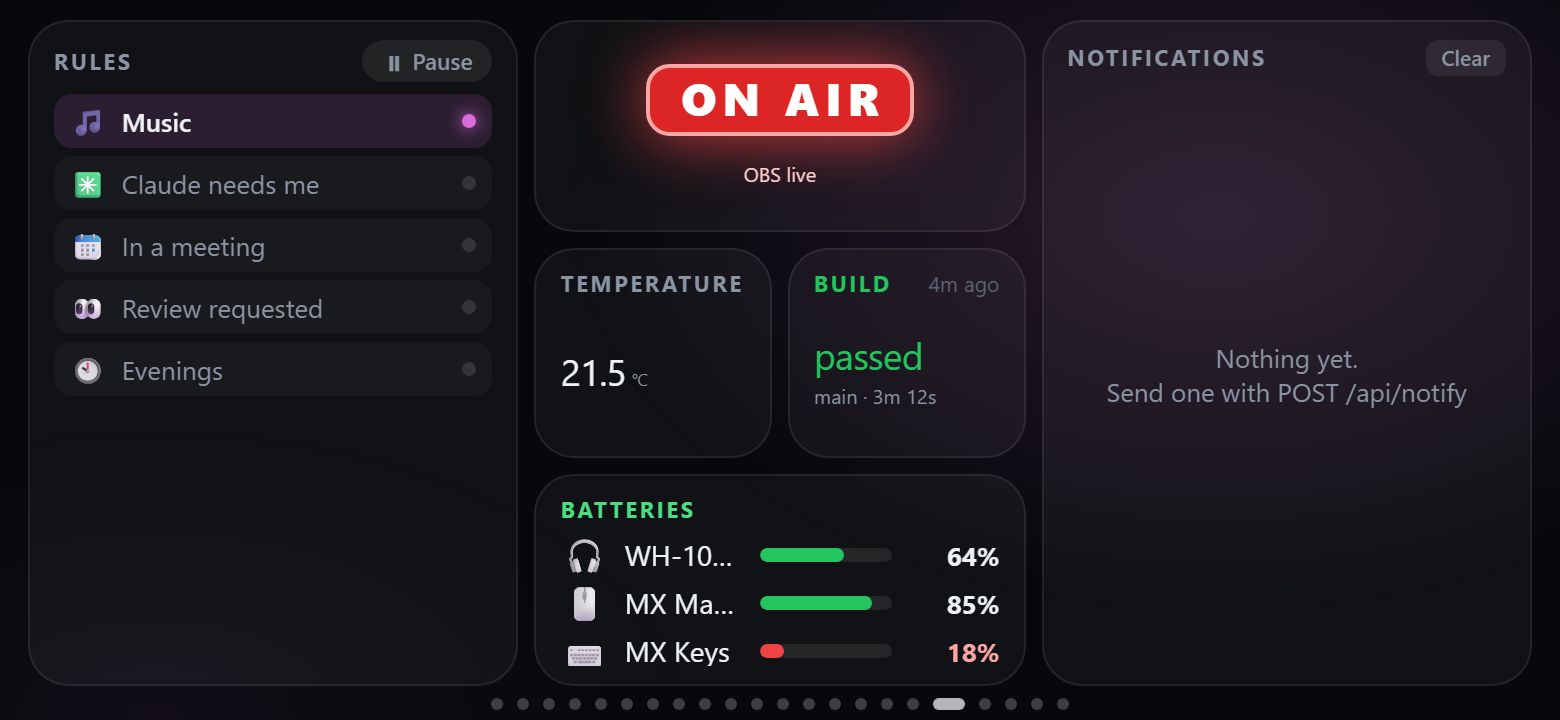
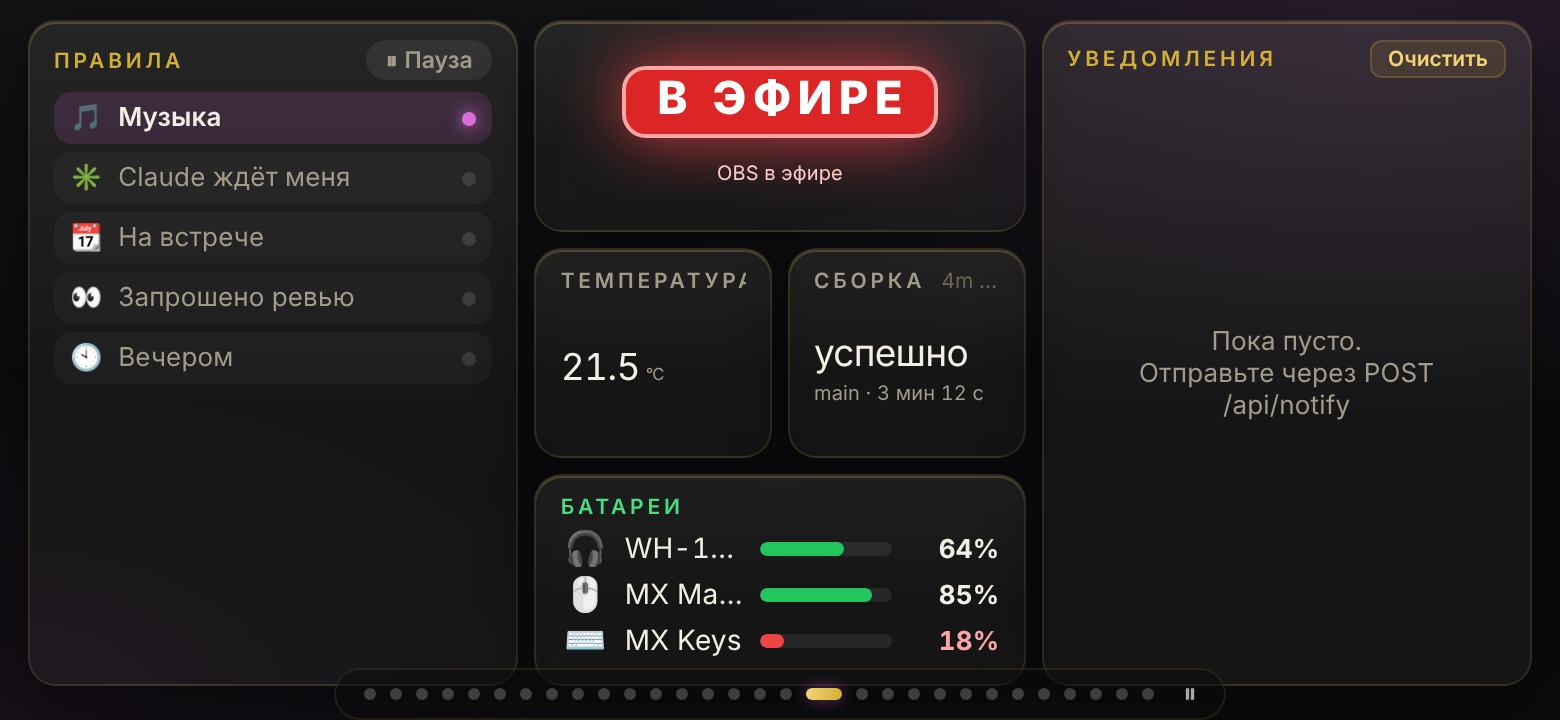
Guide screenshots in the PRO design and Russian, more of the panel in Russian
- docs/screenshots retaken from the Russian demo in the PRO design (19 pages,
  the page overview and the layout editor); unused smart-stack and
  session-details shots removed; README hero from the new home shot
- media.js: --ru takes the shots from the Russian demo; settings-editor shot
- Panel: i18n-ru-dom.js also translates the panel's own English text, with
  rules for phrases with numbers (88% left, Week 47, Ping 10 ms…) and units
- Word clock in Russian («четверть одиннадцатого», «без двадцати одиннадцать»)
- Russian built-in quotes, checklist items and world clocks
- Layout editor widget blocks in graphite and gold

Claude-Session: https://claude.ai/code/session_01WchbezXxZqUxDtoKdkvsGX

diff --git a/android/app/src/main/assets/www/i18n-ru-dom.js b/android/app/src/main/assets/www/i18n-ru-dom.js
@@ -179,15 +179,80 @@
     "From other machines on your network or Tailscale, with the webhook key (HTTPS with this PC's self-signed certificate, so curl needs -k). The key can also go in ?token= for senders that cannot set headers. It only opens the webhook endpoints, never the phone API; replace it if it leaks.": 'С других компьютеров в вашей сети или в Tailscale — с ключом вебхука (HTTPS с самоподписанным сертификатом этого ПК, поэтому curl нужен -k). Ключ можно передать и в ?token= для отправителей, которые не умеют задавать заголовки. Он открывает только адреса вебхуков, но не API телефона; если ключ утёк, замените его.',
     'Profile action IDs': 'ID действий профиля',
     'Mo': 'Пн', 'Tu': 'Вт', 'We': 'Ср', 'Th': 'Чт', 'Fr': 'Пт', 'Sa': 'Сб', 'Su': 'Вс', 'active now': 'действует сейчас',
+
+    // ---- phone panel: widget titles and labels written in English
+    'Processor': 'Процессор', 'Graphics': 'Видеокарта', 'Network': 'Сеть', 'RAM': 'ОЗУ', 'CPU': 'ЦП', 'PHONE': 'ТЕЛЕФОН',
+    '7-day forecast': 'Прогноз на 7 дней', 'Next hours': 'Ближайшие часы', 'Volume': 'Громкость', 'Sun & moon': 'Солнце и луна',
+    'Air quality': 'Качество воздуха', 'Time': 'Время', 'Day': 'День', 'Week': 'Неделя', 'Month': 'Месяц', 'Year': 'Год',
+    'Timer': 'Таймер', 'Counter': 'Счётчик', 'Reset': 'Сброс', 'Stopwatch': 'Секундомер', 'Crypto': 'Криптовалюты',
+    'Room': 'Комната', 'Deploy': 'Деплой', 'Progress': 'Прогресс', 'Notifications': 'Уведомления', 'Clear': 'Очистить',
+    '⏸ Pause': '⏸ Пауза', '▶ Resume': '▶ Продолжить', 'ON AIR': 'В ЭФИРЕ', 'Temperature': 'Температура', 'Batteries': 'Батареи',
+    'This phone': 'Этот телефон', 'Next up': 'Следующее', 'all day': 'весь день', 'Today': 'Сегодня', 'Tomorrow': 'Завтра',
+    "it's just after": 'сейчас чуть больше', "it's nearly": 'сейчас почти', "it's": 'сейчас', 'Moon': 'Луна',
+    'New moon': 'Новолуние', 'Waxing crescent': 'Растущий серп', 'First quarter': 'Первая четверть', 'Waxing gibbous': 'Растущая луна',
+    'Full moon': 'Полнолуние', 'Waning gibbous': 'Убывающая луна', 'Last quarter': 'Последняя четверть', 'Waning crescent': 'Убывающий серп',
+    'Battery care': 'Бережная зарядка', 'Docker containers': 'Контейнеры Docker', 'Free disk space': 'Свободно на дисках',
+    'Application mixer': 'Микшер приложений', 'Microphone': 'Микрофон', 'Media remote': 'Медиапульт', 'OBS scenes': 'Сцены OBS',
+    'OBS mixer': 'Микшер OBS', 'OBS recording and stream': 'Запись и трансляция OBS', 'Start recording': 'Начать запись',
+    'Stop recording': 'Остановить запись', 'Start stream': 'Начать трансляцию', 'Stop stream': 'Остановить трансляцию',
+    'Pause recording': 'Пауза записи', 'Resume recording': 'Продолжить запись', 'Meeting Controls': 'Управление встречей',
+    'Ready': 'Готово', 'Meeting timer': 'Таймер встречи', 'Task Runner': 'Задачи', 'Dev Servers': 'Серверы разработки',
+    'Stop': 'Стоп', 'Start': 'Старт', 'Restart': 'Перезапуск', 'Spotify queue': 'Очередь Spotify', 'Soundboard': 'Саундборд',
+    'App Dock': 'Док приложений', 'Display brightness': 'Яркость дисплея', 'Audio profiles': 'Звуковые профили',
+    'Latest local session': 'Последняя локальная сессия', 'Session tokens': 'Токены сессии', 'Review requests': 'Запросы на ревью',
+    'My pull requests': 'Мои pull request', 'approved': 'одобрено', 'changes': 'нужны правки', 'Previous': 'Назад',
+    'Play/Pause': 'Пуск / пауза', 'Next': 'Вперёд', 'Previous track': 'Предыдущий трек', 'Play or pause': 'Пуск или пауза',
+    'Next track': 'Следующий трек', 'Up next': 'Дальше', 'Now playing': 'Сейчас играет', 'Playing': 'Играет', 'Paused': 'Пауза',
   };
   const norm = (s) => s.replace(/\s+/g, ' ').trim();
+  // phrases with numbers in them (the panel builds these from data)
+  const RULES = [
+    [/^(\d+)% left$/, 'осталось $1%'],
+    [/^Week (\d+)$/, 'Неделя $1'],
+    [/^until (\d{1,2}:\d{2})$/, 'до $1'],
+    [/^Ping (\d+) ms · loss ([\d.]+)%$/, 'Пинг $1 мс · потери $2%'],
+    [/^Fan (\d+)% · (\d+) MHz$/, 'Вентилятор $1% · $2 МГц'],
+    [/^Top CPU \((\d+)%\)$/, 'Топ ЦП ($1%)'],
+    [/^Top RAM \((\d+)%\)$/, 'Топ ОЗУ ($1%)'],
+    [/^Recording (\d[\d:]*)$/, 'Запись $1'],
+    [/^Stream (\d[\d:]*)$/, 'Эфир $1'],
+    [/^(\d+)% lit$/, 'освещено $1%'],
+    [/^Full moon in (\d+) days?$/, 'Полнолуние через $1 дн.'],
+    [/^New moon in (\d+) days?$/, 'Новолуние через $1 дн.'],
+    [/^(\d+) working · (\d+) waiting · (\d+) idle$/, 'работают: $1 · ждут: $2 · простаивают: $3'],
+    [/^▲ (\d+) · (\d+) comments · (.+)$/, '▲ $1 · комментариев: $2 · $3'],
+    [/^⚡ Charging · (.+)$/, '⚡ Заряжается · $1'],
+    [/^Charging · (.+)$/, 'Заряжается · $1'],
+    [/^Charges up to (\d+)% · power off soon$/, 'Заряд до $1% · скоро отключение питания'],
+    [/^Up (\d+) d (\d+) h$/, 'Работает $1 д $2 ч'],
+    [/^Up (\d+) h (\d+) m$/, 'Работает $1 ч $2 мин'],
+    [/^([A-Z]{3}) · 24 h · 7 d$/, '$1 · 24 ч · 7 д'],
+    [/^ECB · (.+)$/, 'ЕЦБ · $1'],
+    [/^In (\S+) · Out (\S+) · Cached (\S+) · Reasoning (\S+)$/, 'Вход $1 · выход $2 · кэш $3 · рассуждения $4'],
+    [/^Last input (\S+) \/ (\S+) context window$/, 'Последний ввод $1 / окно контекста $2'],
+    [/^GPU · (.+)$/, 'ГП · $1'],
+    [/^VRAM · (.+)$/, 'Видеопамять · $1'],
+    [/^(.+) ago$/, '$1 назад'],
+    [/^default \((.+)\)$/, 'по умолчанию ($1)'],
+    [/^Mute (.+)$/, 'Выключить звук: $1'],
+    [/^(.+) volume$/, 'Громкость: $1'],
+    [/^(\d+(?:\.\d+)?) \/ (\d+) GB$/, '$1 / $2 ГБ'],
+  ];
+  const UNITS = [[/OBS live/g, 'OBS в эфире'], [/OBS recording/g, 'OBS пишет'], [/(\d) GB\b/g, '$1 ГБ'], [/(\d) MB\b/g, '$1 МБ'], [/(\d) MHz\b/g, '$1 МГц'], [/(\d) ms\b/g, '$1 мс']];
+  function rule(text) {
+    for (const [re, to] of RULES) if (re.test(text)) return text.replace(re, to);
+    let out = text;
+    for (const [re, to] of UNITS) out = out.replace(re, to);
+    return out === text ? undefined : out;
+  }
+
   const ATTRS = ['title', 'placeholder', 'aria-label'];
   const active = () => window.DeckBoxI18n?.getLang?.() === 'ru';
 
   function textNode(n) {
     const raw = n.nodeValue;
     if (!raw || !/[A-Za-z]/.test(raw)) return;
-    const hit = RU[norm(raw)];
+    const hit = RU[norm(raw)] ?? rule(norm(raw));
     if (hit === undefined) return;
     const lead = raw.match(/^\s*/)[0], tail = raw.match(/\s*$/)[0];
     const next = lead + hit + tail;

diff --git a/android/app/src/main/assets/www/widgets/time.js b/android/app/src/main/assets/www/widgets/time.js
@@ -193,11 +193,32 @@ export const QUOTES = [
   ['A journey of a thousand miles begins with a single step.', 'Laozi'],
 ];
 
+// DeckBox: built-in quotes for the Russian interface
+const QUOTES_RU = [
+  ['Не тратьте больше времени на споры о том, каким должен быть хороший человек. Будьте им.', 'Марк Аврелий'],
+  ['Препятствие на пути становится путём.', 'Марк Аврелий'],
+  ['Мы чаще страдаем в воображении, чем в действительности.', 'Сенека'],
+  ['Удача — это когда подготовка встречается с возможностью.', 'Сенека'],
+  ['Делай что можешь, с тем что имеешь, там где ты есть.', 'Теодор Рузвельт'],
+  ['В жизни нечего бояться, есть только то, что нужно понять.', 'Мария Кюри'],
+  ['Воображение важнее знания.', 'Альберт Эйнштейн'],
+  ['Знание — сила.', 'Фрэнсис Бэкон'],
+  ['Путь в тысячу ли начинается с первого шага.', 'Лао-цзы'],
+  ['Семь раз отмерь, один раз отрежь.', 'Пословица'],
+  ['Москва не сразу строилась.', 'Пословица'],
+  ['Капля камень точит.', 'Пословица'],
+  ['Терпение и труд всё перетрут.', 'Пословица'],
+  ['Тише едешь — дальше будешь.', 'Пословица'],
+  ['Делу время, потехе час.', 'Пословица'],
+  ['Удалённый код — отлаженный код.', 'Джефф Сикел'],
+];
+const ruUi = () => window.DeckBoxI18n?.getLang?.() === 'ru';
+
 W.quote = {
   needs: ['tick'],
   create(box, { o }) {
     const custom = lines(o.quotes, []).map((l) => { const i = l.lastIndexOf(' — '); return i > 0 ? [l.slice(0, i), l.slice(i + 3)] : [l, '']; });
-    const list = custom.length ? custom : QUOTES;
+    const list = custom.length ? custom : (ruUi() ? QUOTES_RU : QUOTES);
     const mins = Math.max(1, Number(o.minutes) || 30);
     const q = h('div', 'qt-q'), a = h('div', 'qt-a');
     box.append(h('div', 'qt-mark', '“'), q, a);
@@ -218,7 +239,7 @@ W.quote = {
 W.checklist = {
   needs: ['tick'],
   create(box, { o, page, w }) {
-    const items = lines(o.items, ['Water the plants', 'Stretch', 'Inbox zero']);
+    const items = lines(o.items, ruUi() ? ['Полить цветы', 'Размяться', 'Разобрать почту'] : ['Water the plants', 'Stretch', 'Inbox zero']);
     const key = `cl:${page.id}/${w.id}`;
     const day = () => new Date().toDateString();
     let st = store.get(key, null) || { day: day(), done: [] };
@@ -265,6 +286,27 @@ export function timeInWords(d) {
   else main = [minutes[60 - m], 'to', hourName(hr + 1)];
   return { lead: exact ? "it's" : over ? "it's just after" : "it's almost", main };
 }
+
+// The same in Russian: «четверть одиннадцатого», «половина первого», «без двадцати одиннадцать».
+const RU_HOUR = ['двенадцать', 'час', 'два', 'три', 'четыре', 'пять', 'шесть', 'семь', 'восемь', 'девять', 'десять', 'одиннадцать'];
+const RU_HOUR_OF = ['двенадцатого', 'первого', 'второго', 'третьего', 'четвёртого', 'пятого', 'шестого', 'седьмого', 'восьмого', 'девятого', 'десятого', 'одиннадцатого'];
+export function timeInWordsRu(d) {
+  const total = d.getHours() * 60 + d.getMinutes();
+  const r = Math.round(total / 5) * 5;
+  const exact = r === total, over = total > r;
+  const m = r % 60, hr = Math.floor(r / 60) % 24, h12 = hr % 12, next = (hr + 1) % 12;
+  const past = { 5: ['пять', 'минут'], 10: ['десять', 'минут'], 15: ['четверть'], 20: ['двадцать', 'минут'], 25: ['двадцать', 'пять', 'минут'], 30: ['половина'] };
+  const to = { 5: 'пяти', 10: 'десяти', 15: 'четверти', 20: 'двадцати', 25: 'двадцати пяти' };
+  let main;
+  if (m === 0) {
+    if (hr === 0) main = ['полночь'];
+    else if (hr === 12) main = ['полдень'];
+    else if (h12 === 1) main = ['час'];
+    else main = [RU_HOUR[h12], h12 >= 2 && h12 <= 4 ? 'часа' : 'часов'];
+  } else if (m <= 30) main = [...past[m], RU_HOUR_OF[next]];
+  else main = ['без', ...to[60 - m].split(' '), RU_HOUR[next]];
+  return { lead: exact ? 'сейчас' : over ? 'сейчас чуть больше' : 'сейчас почти', main };
+}
 W.wordclock = {
   bare: true, needs: ['tick'],
   create(box) {
@@ -274,7 +316,7 @@ W.wordclock = {
     return {
       update() {
         const now = new Date();
-        const t = timeInWords(now);
+        const t = ruUi() ? timeInWordsRu(now) : timeInWords(now);
         const k = t.lead + t.main.join(' ');
         if (k === shown) return;
         shown = k;

diff --git a/tools/ui-tests/media.js b/tools/ui-tests/media.js
@@ -2,6 +2,7 @@
 // Start the demo first (python tools/demo-server.py), then from tools/ui-tests:
 //
 //   node media.js shots nightstand planner overview   # docs/screenshots/<page>.png (780 x 360 at 2x; "overview" = all pages)
+//   node media.js --ru shots home settings-editor      # the Russian demo; settings-editor = the layout editor
 //   node media.js tour                                 # docs/tour-<v>.mp4 and .gif (needs ffmpeg)
 //   node media.js hero                                 # docs/hero-<v>.png (1920 x 810; waits ~1.5 min so the charts fill)
 //
@@ -18,26 +19,51 @@ const BASE = opt('base', 'http://127.0.0.1:8790/');
 const NAME = opt('name', 'new');
 const DOCS = path.resolve(__dirname, '..', '..', 'docs');
 const OUT = opt('out', DOCS);
+// --ru: the Russian demo (interface and data), as visitors of the site see it
+const RU = args.includes('--ru');
+if (RU) args.splice(args.indexOf('--ru'), 1);
 const [what, ...ids] = args;
+const context = async (browser, options) => {
+  const ctx = await browser.newContext({ ...options, ...(RU ? { locale: 'ru-RU' } : {}) });
+  if (RU) await ctx.addInitScript(() => Object.defineProperty(navigator, 'webdriver', { get: () => false }));
+  return ctx;
+};
+// file name → demo page id, where they differ
+const PAGE_OF = { deepwork: 'focuswork', 'procs-sheet': 'procs' };
 const PANEL = new URL('panel/', BASE).href;
 const ORDER = JSON.parse(fs.readFileSync(path.join(__dirname, '..', 'pages', 'demo.js'), 'utf8').match(/const PAGES = (\[[^\]]*\])/)[1].replace(/'/g, '"'));
 const next = (frame, n) => frame.evaluate((n) => { for (let i = 0; i < n; i++) window.onAndroidKey('next'); }, n);
 const indexOf = (id) => { const i = ORDER.indexOf(id); if (i < 0) throw new Error(`unknown page "${id}" (pages: ${ORDER.join(', ')})`); return i; };
 
 async function shots(browser) {
-  const ctx = await browser.newContext({ viewport: { width: 780, height: 360 }, deviceScaleFactor: 2 });
+  const ctx = await context(browser, { viewport: { width: 780, height: 360 }, deviceScaleFactor: 2 });
   for (const id of ids) {
+    if (id === 'settings-editor') { await settingsShot(browser); continue; }
     const page = await ctx.newPage();
     await page.goto(PANEL);
     await page.waitForTimeout(3000);
     if (id === 'overview') await page.evaluate(() => window.openOverview());
-    else await next(page, indexOf(id));
+    else await next(page, indexOf(PAGE_OF[id] || id));
     await page.waitForTimeout(3500);
     const file = path.join(OUT, 'screenshots', id + '.png');
     await page.screenshot({ path: file });
     await page.close();
     console.log(file);
   }
+}
+
+// the layout editor (Settings › Pages) with the first widget selected
+async function settingsShot(browser) {
+  const ctx = await context(browser, { viewport: { width: 1440, height: 980 }, deviceScaleFactor: 2 });
+  const page = await ctx.newPage();
+  await page.goto(new URL('settings/#pages', BASE).href);
+  await page.waitForTimeout(4000);
+  await page.locator('.wb').first().click().catch(() => {});
+  await page.waitForTimeout(1500);
+  const file = path.join(OUT, 'screenshots', 'settings-editor.png');
+  await page.screenshot({ path: file });
+  await ctx.close();
+  console.log(file);
 }
 
 async function tour(browser) {

diff --git a/agent/DeckBox.Agent/settings.html b/agent/DeckBox.Agent/settings.html
@@ -94,16 +94,16 @@ input:focus, select:focus, textarea:focus { border-color: var(--accent); }
 #pageEditor.live .layout-hint { display: none; }
 .preview { position: relative; aspect-ratio: 780 / 360; overflow: hidden; border-radius: 10px; background: #000; }
 .preview iframe { position: absolute; left: 0; top: 0; width: 780px; height: 360px; border: 0; transform-origin: 0 0; }
-.phone { width: 100%; max-width: 860px; padding: 14px 18px; border-radius: 28px; background: #06080b; border: 1px solid #22262e; box-shadow: 0 10px 30px rgba(0,0,0,.25); }
+.phone { width: 100%; max-width: 860px; padding: 14px 18px; border-radius: 28px; background: #09090b; border: 1px solid #3a3326; box-shadow: 0 10px 30px rgba(0,0,0,.25); }
 .canvas { position: relative; aspect-ratio: 752 / 333; display: grid; grid-template-columns: repeat(12, 1fr); grid-template-rows: repeat(6, 1fr); gap: 6px; touch-action: none; }
 .canvas .cell { border-radius: 6px; background: rgba(255,255,255,.035); }
-.wb { position: relative; z-index: 1; border-radius: 10px; background: #1a2230; border: 1.5px solid #2c3647; color: #e8ecf1; cursor: grab; overflow: hidden; display: flex; container-type: size; }
+.wb { position: relative; z-index: 1; border-radius: 10px; background: linear-gradient(180deg, #1d1c1f, #151417); border: 1.5px solid #34302a; color: #f1ece1; cursor: grab; overflow: hidden; display: flex; container-type: size; }
 .wb:active { cursor: grabbing; }
 .wb.sel { border-color: var(--accent); box-shadow: 0 0 0 3px color-mix(in srgb, var(--accent) 35%, transparent); z-index: 2; }
 .wb-in { flex: 1; min-width: 0; display: flex; flex-direction: column; align-items: center; justify-content: center; text-align: center; padding: 4px; gap: 1px; pointer-events: none; }
 .wb-ico { font-size: clamp(14px, 30cqmin, 34px); line-height: 1.1; }
 .wb b { font-size: 12px; font-weight: 600; white-space: nowrap; overflow: hidden; text-overflow: ellipsis; max-width: 100%; }
-.wb small { font-size: 11px; color: #94a3b8; white-space: nowrap; overflow: hidden; text-overflow: ellipsis; max-width: 100%; }
+.wb small { font-size: 11px; color: #a39b89; white-space: nowrap; overflow: hidden; text-overflow: ellipsis; max-width: 100%; }
 @container (max-height: 52px) { .wb small { display: none; } }
 @container (max-height: 36px) { .wb b { display: none; } }
 .rz { position: absolute; right: 0; bottom: 0; width: 16px; height: 16px; cursor: nwse-resize; background: linear-gradient(135deg, transparent 50%, var(--accent) 50%); border-bottom-right-radius: 8px; opacity: .7; }

diff --git a/android/app/src/main/assets/www/widgets/basic.js b/android/app/src/main/assets/www/widgets/basic.js
@@ -781,7 +781,9 @@ W.button = {
 W.worldclock = {
   needs: ['tick'],
   create(box, { o }) {
-    const zones = (Array.isArray(o.zones) && o.zones.length ? o.zones : ['Tallinn=Europe/Tallinn', 'Istanbul=Europe/Istanbul', 'London=Europe/London', 'New York=America/New_York', 'Tokyo=Asia/Tokyo'])
+    const zones = (Array.isArray(o.zones) && o.zones.length ? o.zones : window.DeckBoxI18n?.getLang?.() === 'ru'
+      ? ['Москва=Europe/Moscow', 'Екатеринбург=Asia/Yekaterinburg', 'Лондон=Europe/London', 'Нью-Йорк=America/New_York', 'Токио=Asia/Tokyo']
+      : ['Tallinn=Europe/Tallinn', 'Istanbul=Europe/Istanbul', 'London=Europe/London', 'New York=America/New_York', 'Tokyo=Asia/Tokyo'])
       .map((z) => { const i = z.indexOf('='); return i > 0 ? [z.slice(0, i).trim(), z.slice(i + 1).trim()] : [z.split('/').pop().replace(/_/g, ' '), z.trim()]; });
     const items = zones.map(([name, tz]) => {
       let fmt = null;

diff --git a/android/app/src/main/assets/www/index.html b/android/app/src/main/assets/www/index.html
@@ -136,6 +136,7 @@
 </script>
 <script src="compat.js"></script>
 <script src="i18n.js"></script>
+<script src="i18n-ru-dom.js"></script>
 <script type="module" src="main.js"></script>
 </body>
 </html>
